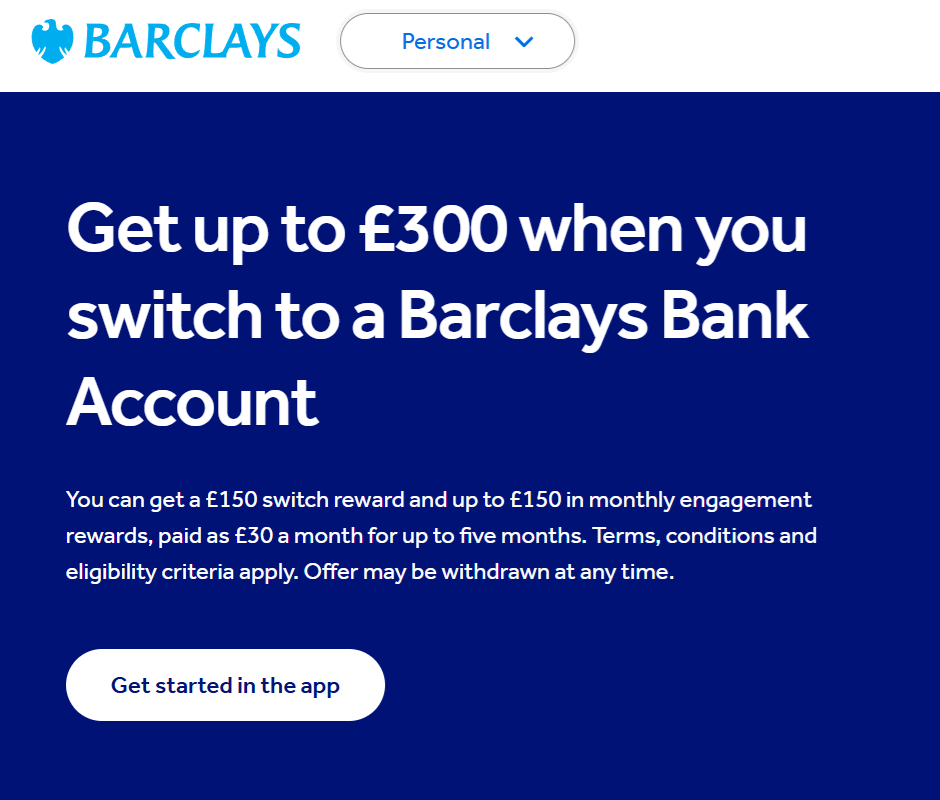
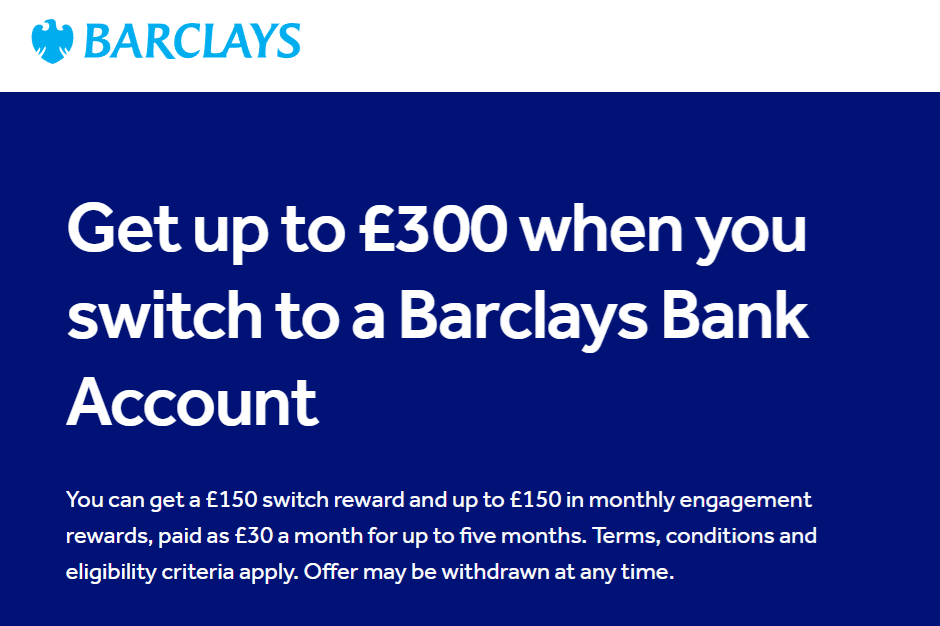
Refresh Barclays email image and version its URL

diff --git a/artifacts/email/bani-uk-ai-01-preview.html b/artifacts/email/bani-uk-ai-01-preview.html
@@ -29,7 +29,7 @@
     <tr><td class="outer" align="center" style="padding:28px 12px;">
       <!--[if mso]><table role="presentation" width="600"><tr><td><![endif]-->
       <table class="shell" role="presentation" width="600" cellspacing="0" cellpadding="0" border="0" bgcolor="#ffffff" style="width:100%;max-width:600px;background-color:#ffffff;">
-        <tr><td><img src="https://www.justproveit.co.uk/email-assets/bani-uk-ai/barclays.png" alt="Exemplu de ofertă Barclays: bonus de schimbare și recompense condiționate de eligibilitate" width="600" border="0" style="display:block;width:100%;max-width:600px;height:auto;margin:0 auto;"></td></tr>
+        <tr><td><img src="https://www.justproveit.co.uk/email-assets/bani-uk-ai/barclays.png?v=0f9fc969ceb0" alt="Exemplu de ofertă Barclays: bonus de schimbare și recompense condiționate de eligibilitate" width="600" border="0" style="display:block;width:100%;max-width:600px;height:auto;margin:0 auto;"></td></tr>
         <tr><td height="5" bgcolor="#6ea6f8" style="height:5px;font-size:0;line-height:0;">&nbsp;</td></tr>
         <tr><td class="gutter" style="padding:30px 38px 4px;font-size:16px;line-height:26px;color:#111111;">
           <p style="margin:0 0 18px;font-size:11px;line-height:18px;letter-spacing:1.4px;font-weight:bold;color:#454545;">PROVEIT · BANI ÎN UK CU AI</p>
